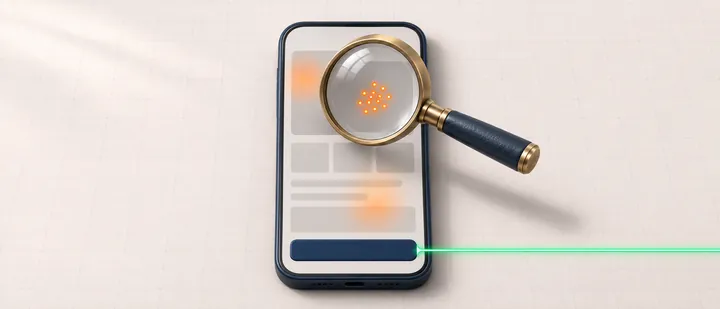
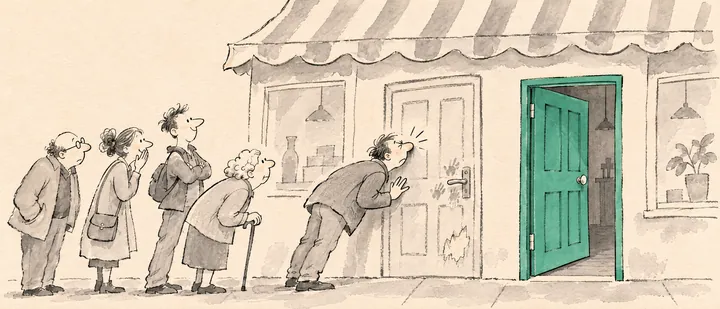
Redraw README art as ink-and-wash scenes

diff --git a/README.md b/README.md
@@ -1,5 +1,5 @@
 <p align="center">
-  <img src="assets/banner.svg" alt="UX Analyst: a phone and a monitor showing heat blobs on a web page, with a brass magnifying glass over one of them." width="100%">
+  <img src="assets/banner.webp" alt="UX Analyst: a park where everyone walks a worn shortcut across the lawn instead of the paved path, while a park keeper takes notes." width="100%">
 </p>
 
 # UX Analyst
@@ -14,7 +14,7 @@ The skill ranks pages by friction through the official Clarity MCP, reads click 
 
 ## Use cases
 
-<img src="assets/rank-pages.webp" alt="Five navy page cards on brass stands from tallest to shortest; the two tallest carry thermometers and a green line runs under the first three." width="360" align="right">
+<img src="assets/rank-pages.webp" alt="An innkeeper raises his lantern toward the door whose doormat is worn through and covered in muddy footprints." width="360" align="right">
 
 ### Find where to look first
 
@@ -22,7 +22,7 @@ You ask: "Audit our store in Clarity." The skill pulls sessions, dead clicks, ra
 
 <br clear="all">
 
-<img src="assets/click-map.webp" alt="A phone showing a shop page, with a brass magnifying glass over a cluster of orange taps on the product image and a green line leading from the real button." width="360" align="left">
+<img src="assets/click-map.webp" alt="A queue of people trying a door painted on the wall, one bumping his nose on it, while the real door beside it stands open." width="360" align="left">
 
 ### Explain a dead-tap cluster
 
@@ -30,7 +30,7 @@ You ask: "Why do mobile users keep tapping the product photo?" The skill reads t
 
 <br clear="all">
 
-<img src="assets/scroll-depth.webp" alt="A long navy scroll like a web page on a brass ruler, crossed by a green line at its middle, with a small brass button past the line." width="360" align="right">
+<img src="assets/scroll-depth.webp" alt="A long gallery where visitors crowd the entrance and thin out by the middle, and nobody reaches the gift shop at the far end." width="360" align="right">
 
 ### Check whether the CTA is seen
 
